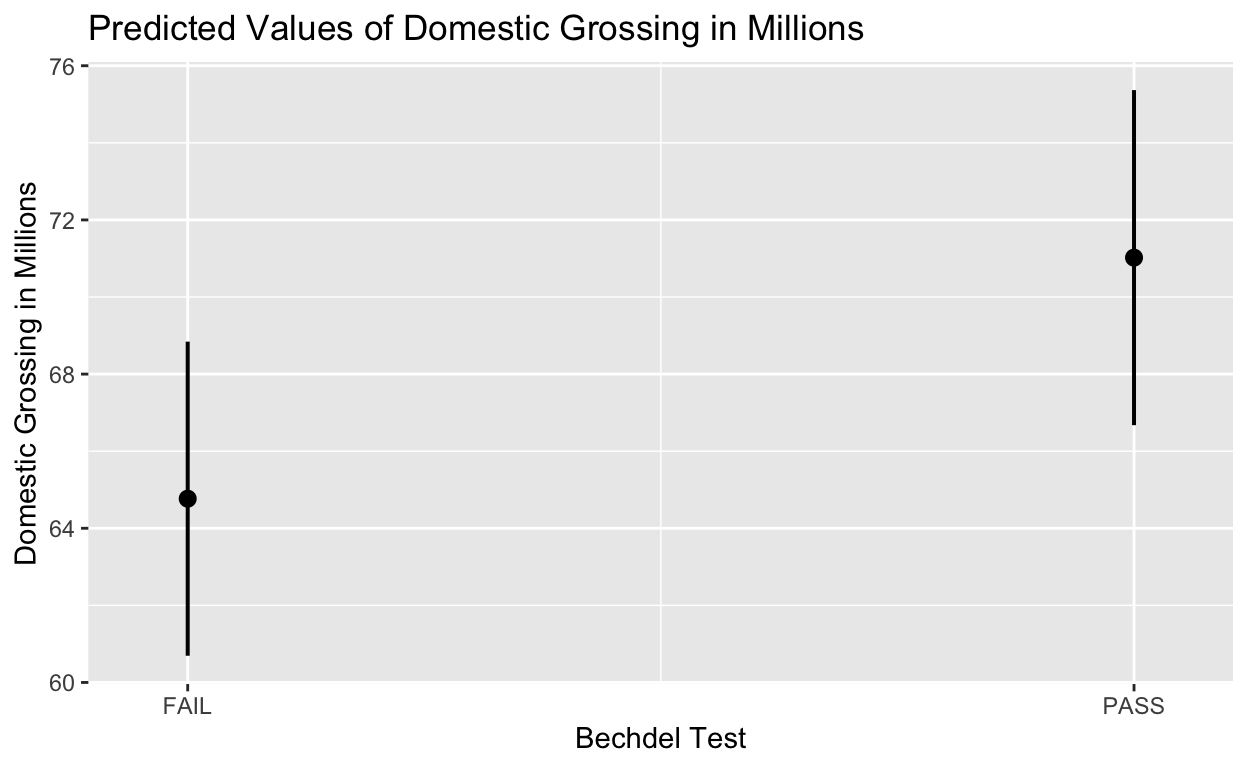
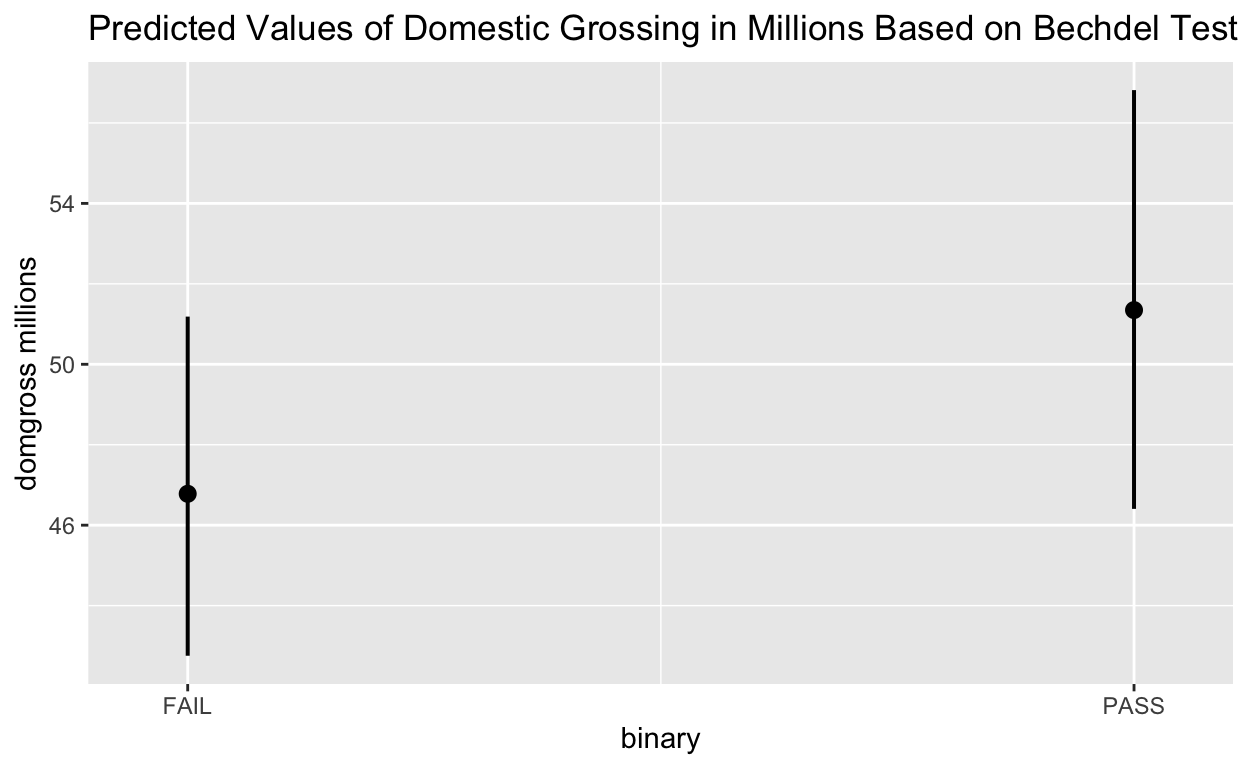
12/10 2

diff --git a/index.html b/index.html
@@ -115,7 +115,7 @@ code span.wa { color: #5e5e5e; font-style: italic; } /* Warning */
   <!--/radix_placeholder_rmarkdown_metadata-->
   
   <script type="text/json" id="radix-resource-manifest">
-  {"type":"character","attributes":{},"value":["bechdel_data.csv","index_files/anchor-4.2.2/anchor.min.js","index_files/bowser-1.9.3/bowser.min.js","index_files/distill-2.2.21/template.v2.js","index_files/figure-html5/unnamed-chunk-2-1.png","index_files/figure-html5/unnamed-chunk-3-1.png","index_files/figure-html5/unnamed-chunk-4-1.png","index_files/figure-html5/unnamed-chunk-4-2.png","index_files/figure-html5/unnamed-chunk-4-3.png","index_files/figure-html5/unnamed-chunk-5-1.png","index_files/figure-html5/unnamed-chunk-5-2.png","index_files/figure-html5/unnamed-chunk-5-3.png","index_files/figure-html5/unnamed-chunk-6-1.png","index_files/figure-html5/unnamed-chunk-6-2.png","index_files/figure-html5/unnamed-chunk-6-3.png","index_files/figure-html5/unnamed-chunk-6-4.png","index_files/header-attrs-2.16/header-attrs.js","index_files/header-attrs-2.17/header-attrs.js","index_files/jquery-3.6.0/jquery-3.6.0.js","index_files/jquery-3.6.0/jquery-3.6.0.min.js","index_files/jquery-3.6.0/jquery-3.6.0.min.map","index_files/kePrint-0.0.1/kePrint.js","index_files/lightable-0.0.1/lightable.css","index_files/popper-2.6.0/popper.min.js","index_files/tippy-6.2.7/tippy-bundle.umd.min.js","index_files/tippy-6.2.7/tippy-light-border.css","index_files/tippy-6.2.7/tippy.css","index_files/tippy-6.2.7/tippy.umd.min.js","index_files/webcomponents-2.0.0/webcomponents.js"]}
+  {"type":"character","attributes":{},"value":["bechdel_data.csv","index_files/anchor-4.2.2/anchor.min.js","index_files/bowser-1.9.3/bowser.min.js","index_files/distill-2.2.21/template.v2.js","index_files/figure-html5/unnamed-chunk-2-1.png","index_files/figure-html5/unnamed-chunk-3-1.png","index_files/figure-html5/unnamed-chunk-4-1.png","index_files/figure-html5/unnamed-chunk-4-2.png","index_files/figure-html5/unnamed-chunk-4-3.png","index_files/figure-html5/unnamed-chunk-5-1.png","index_files/figure-html5/unnamed-chunk-5-2.png","index_files/figure-html5/unnamed-chunk-5-3.png","index_files/figure-html5/unnamed-chunk-6-1.png","index_files/figure-html5/unnamed-chunk-6-2.png","index_files/figure-html5/unnamed-chunk-6-3.png","index_files/figure-html5/unnamed-chunk-6-4.png","index_files/figure-html5/unnamed-chunk-7-1.png","index_files/figure-html5/unnamed-chunk-7-2.png","index_files/header-attrs-2.16/header-attrs.js","index_files/header-attrs-2.17/header-attrs.js","index_files/jquery-3.6.0/jquery-3.6.0.js","index_files/jquery-3.6.0/jquery-3.6.0.min.js","index_files/jquery-3.6.0/jquery-3.6.0.min.map","index_files/kePrint-0.0.1/kePrint.js","index_files/lightable-0.0.1/lightable.css","index_files/popper-2.6.0/popper.min.js","index_files/tippy-6.2.7/tippy-bundle.umd.min.js","index_files/tippy-6.2.7/tippy-light-border.css","index_files/tippy-6.2.7/tippy.css","index_files/tippy-6.2.7/tippy.umd.min.js","index_files/webcomponents-2.0.0/webcomponents.js"]}
   </script>
   <!--radix_placeholder_navigation_in_header-->
   <!--/radix_placeholder_navigation_in_header-->
@@ -1520,18 +1520,21 @@ code span.wa { color: #5e5e5e; font-style: italic; } /* Warning */
 
 <div class="d-article">
 <h1 id="introduction">Introduction</h1>
-<p>The Bechdel Test is a method of measuring the representation of women in a film. The evaluation is based on three pieces of criteria: there has to be at least two women, they need to talk to each other, and their conversation must be about something other than a man. The test actually originated from one of Alison Bechdel, a comic strip illustrator and writer’s comics without the aim of becoming a national barometer for sexism in Hollywood. Though the Bechdel Test is extremely flawed because it fails to account for gender nuances, it serves as a minimum baseline for looking at movies, particularly older, more classic ones in a time when women were rarely portrayed as anything but a heterosexual love-interest on screen. These classic movies clearly succeeded in box offices, or they would not be considered classics today. More recently, the public has seen immense growth when it comes to diversity on screen, with more directors and actors being BIPOC, women, LGBTQ+, and a combination of these identity groups. However, one might ask whether the inclusivity and progressiveness of films impact the success of a movie. Does a movie passing the Bechdel Test affect its domestic grossing? In particular, assuming that a movie’s budget affects domestic grossing, how statistically significant are Bechdel Test outcomes in a movie’s viewing success?</p>
-<p>An optimistic hypothesis would be that movies are more likely to succeed if they do pass the Bechdel Test because society has evolved to value realistic portrayals of life and women that do not revolve around men. Utilizing data to answer the research question is interesting because it might inform how the movie industry works and whether their decisions relating to casting and scriptwriting is informed by their audiences or whether what audiences look for in movies does not necessarily reflect their everyday values. If the Bechdel test does have a strong positive or negative impact on domestic grossing, then it would tell us something significant about the values of production companies and audiences. If there is no correlation, it speaks to a potential indifference to the portrayal of women on screen. Additionally, by overlaying the Bechdel test binary on a movie’s budget in conjunction with domestic grossing, it would be notable if high budget movies are more or less likely to pass the Bechdel Test. The film industry plays a powerful role in the public’s implicit biases and public opinion is both represented in what’s shown on screen, but what’s shown on screen also impacts how people think in the future. If viewers are not exposed to women engaging in conversations independent of men, it informs the perception of women and can also lead to societal norms and stereotypes such as the stereotype that young women’s relationship might depend on the presence of men and their actions.</p>
+<p>The Bechdel Test is a method of measuring the representation of women in a film. The evaluation is based on three pieces of criteria: there has to be at least two women, they need to talk to each other, and their conversation must be about something other than a man. The test actually originated from one of Alison Bechdel, a comic strip illustrator and writer’s comics without the aim of becoming a national barometer for sexism in Hollywood.</p>
+<p>Though the Bechdel Test is extremely flawed because it fails to account for gender nuances, it serves as a minimum baseline for looking at movies, particularly older, more classic ones in a time when women were rarely portrayed as anything but a heterosexual love-interest on screen. These classic movies clearly succeeded in box offices, or they would not be considered classics today. More recently, the public has seen immense growth when it comes to diversity on screen, with more directors and actors being BIPOC, women, LGBTQ+, and a combination of these identity groups. However, one might ask whether the inclusiveness and progressiveness of films impact the success of a movie. <strong>Does a movie passing the Bechdel Test affect its domestic grossing? In particular, assuming that a movie’s budget affects domestic grossing, how statistically significant are Bechdel Test outcomes in a movie’s viewing success?</strong></p>
+<p>An optimistic hypothesis would be that movies are more likely to succeed if they do pass the Bechdel Test because society has evolved to value realistic portrayals of life and women that do not revolve around men. I hypothesize that movies that pass the Bechdel Test will be more likely to have a higher domestic grossing because so many viewers are women and in recent society, people have become feminists who value strong female characters in movies that have concerns and thoughts beyond a heterosexual love life or male protagonists.</p>
+<p>Utilizing data to answer the research question is interesting because it might inform how the movie industry works and whether their decisions relating to casting and script writing is informed by their audiences or whether what audiences look for in movies does not necessarily reflect their everyday values. If the Bechdel test does have a strong positive or negative impact on domestic grossing, then it would tell us something significant about the values of production companies and audiences. If there is no correlation, it speaks to a potential indifference to the portrayal of women on screen. Additionally, by overlaying the Bechdel test binary on a movie’s budget in conjunction with domestic grossing, it would be notable if high budget movies are more or less likely to pass the Bechdel Test.</p>
+<p>The film industry plays a powerful role in the public’s implicit biases and public opinion is both represented in what’s shown on screen, but what’s shown on screen also impacts how people think in the future. If viewers are not exposed to women engaging in conversations independent of men, it informs the perception of women and can also lead to societal norms and stereotypes such as the stereotype that young women’s relationship might depend on the presence of men and their actions.</p>
 <div class="layout-chunk" data-layout="l-body">
 <div class="sourceCode">
 <pre class="sourceCode r"><code class="sourceCode r"><span><span class='kw'><a href='https://rdrr.io/r/base/library.html'>library</a></span><span class='op'>(</span><span class='va'><a href='https://tidyverse.tidyverse.org'>tidyverse</a></span><span class='op'>)</span></span>
 <span><span class='va'>bechdel</span><span class='op'>&lt;-</span> <span class='fu'><a href='https://rdrr.io/r/utils/read.table.html'>read.csv</a></span><span class='op'>(</span><span class='st'>"bechdel_data.csv"</span><span class='op'>)</span></span>
 <span><span class='va'>bechdel</span> <span class='op'>&lt;-</span> <span class='va'>bechdel</span> <span class='op'>|&gt;</span></span>
-<span>  <span class='fu'><a href='https://dplyr.tidyverse.org/reference/mutate.html'>mutate</a></span><span class='op'>(</span>budget <span class='op'>=</span> <span class='fu'><a href='https://rdrr.io/r/base/numeric.html'>as.numeric</a></span><span class='op'>(</span><span class='va'>budget</span><span class='op'>)</span>,</span>
+<span>  <span class='fu'><a href='https://rdrr.io/pkg/dplyr/man/mutate.html'>mutate</a></span><span class='op'>(</span>budget <span class='op'>=</span> <span class='fu'><a href='https://rdrr.io/r/base/numeric.html'>as.numeric</a></span><span class='op'>(</span><span class='va'>budget</span><span class='op'>)</span>,</span>
 <span>         domgross <span class='op'>=</span> <span class='fu'><a href='https://rdrr.io/r/base/numeric.html'>as.numeric</a></span><span class='op'>(</span><span class='va'>domgross</span><span class='op'>)</span><span class='op'>)</span> <span class='op'>|&gt;</span></span>
-<span>  <span class='fu'><a href='https://dplyr.tidyverse.org/reference/mutate.html'>mutate</a></span><span class='op'>(</span>budget_millions <span class='op'>=</span> <span class='va'>budget</span><span class='op'>/</span><span class='fl'>1000000</span>, </span>
+<span>  <span class='fu'><a href='https://rdrr.io/pkg/dplyr/man/mutate.html'>mutate</a></span><span class='op'>(</span>budget_millions <span class='op'>=</span> <span class='va'>budget</span><span class='op'>/</span><span class='fl'>1000000</span>, </span>
 <span>         domgross_millions <span class='op'>=</span> <span class='va'>domgross</span><span class='op'>/</span><span class='fl'>1000000</span><span class='op'>)</span><span class='op'>|&gt;</span></span>
-<span>  <span class='fu'><a href='https://tidyr.tidyverse.org/reference/drop_na.html'>drop_na</a></span><span class='op'>(</span><span class='op'>)</span></span></code></pre>
+<span>  <span class='fu'><a href='https://rdrr.io/pkg/tidyr/man/drop_na.html'>drop_na</a></span><span class='op'>(</span><span class='op'>)</span></span></code></pre>
 </div>
 </div>
 <h1 id="data">Data</h1>
@@ -1565,40 +1568,38 @@ code span.wa { color: #5e5e5e; font-style: italic; } /* Warning */
 <td style="text-align: left;">budget for a movie in millions of US dollars</td>
 </tr>
 <tr class="odd">
-<td style="text-align: left;"><code>domgross_millsion</code></td>
-<td style="text-align: left;">domestic grossing for a movie in millions of people</td>
+<td style="text-align: left;"><code>domgross_millions</code></td>
+<td style="text-align: left;">domestic grossing for a movie in millions of US dollars</td>
 </tr>
 <tr class="even">
-<td style="text-align: left;"><code>gdpPercap</code></td>
-<td style="text-align: left;">GDP per capita (US dollars, inflation-adjusted)</td>
-</tr>
-<tr class="odd">
 <td style="text-align: left;"></td>
 <td style="text-align: left;"></td>
 </tr>
 </tbody>
 </table>
-<p>The dependent variable (the y-variable) in this study is domestic grossing throughout the study because that is the variable used to measure the success of each film. There are a few independent variables (x-variables) that are utilized in the data visualizations including the budgets of the movies, the year they were released, and, most importantly, whether the movie passes the Bechdel Test. All of the variables are quantitative except for the Bechdel Test which is a Pass/Fail binary, another type of categorical variable. The data was collected likely from existing databases from box offices that would preserve movies’ budgets and grossing data. FiveThirtyEight, which is known for their data projects, has used a website called The-Numbers.com with daily and archived updates about how films are doing in theaters and at home, so it is very possible they took some of their data from there as well as Bechdel.com which tracks which movies pass the three criteria of the Bechdel Test. The following is a summary of the dependent variable, the domestic grossing of the movies, divided based on its Bechdel status:</p>
+<p>The dependent variable (the y-variable) in this study is domestic grossing throughout the study because that is the variable used to measure the success of each film. There are a few independent variables (x-variables) that are utilized in the data visualizations including the budgets of the movies, the year they were released, and, most importantly, whether the movie passes the Bechdel Test. All of the variables are quantitative except for the Bechdel Test which is a Pass/Fail binary, another type of categorical variable.</p>
+<p>The data was collected likely from existing databases from box offices that would preserve movies’ budgets and grossing data. FiveThirtyEight, which is known for their data projects, has used a website called The-Numbers.com with daily and archived updates about how films are doing in theaters and at home, so it is very possible they took some of their data from there as well as Bechdel.com which tracks which movies pass the three criteria of the Bechdel Test. The following is a summary of the dependent variable, the domestic grossing of the movies, divided based on its Bechdel status:</p>
 <div class="layout-chunk" data-layout="l-body">
 <div class="sourceCode">
 <pre class="sourceCode r"><code class="sourceCode r"><span><span class='kw'><a href='https://rdrr.io/r/base/library.html'>library</a></span><span class='op'>(</span><span class='va'><a href='https://ggplot2.tidyverse.org'>ggplot2</a></span><span class='op'>)</span></span>
 <span><span class='co'>#Summary of dependent variable (domestic grossing)</span></span>
 <span><span class='va'>domgross_plot</span> <span class='op'>&lt;-</span> <span class='va'>bechdel</span> <span class='op'>|&gt;</span></span>
-<span>  <span class='fu'><a href='https://ggplot2.tidyverse.org/reference/ggplot.html'>ggplot</a></span><span class='op'>(</span><span class='va'>bechdel</span>, mapping <span class='op'>=</span> <span class='fu'><a href='https://ggplot2.tidyverse.org/reference/aes.html'>aes</a></span><span class='op'>(</span>x <span class='op'>=</span> <span class='va'>domgross_millions</span>, color <span class='op'>=</span> <span class='va'>binary</span><span class='op'>)</span><span class='op'>)</span> <span class='op'>+</span> <span class='fu'><a href='https://ggplot2.tidyverse.org/reference/geom_histogram.html'>geom_histogram</a></span><span class='op'>(</span><span class='op'>)</span> <span class='op'>+</span> <span class='fu'><a href='https://ggplot2.tidyverse.org/reference/facet_wrap.html'>facet_wrap</a></span><span class='op'>(</span><span class='op'>~</span> <span class='va'>binary</span><span class='op'>)</span> <span class='op'>+</span> <span class='fu'><a href='https://ggplot2.tidyverse.org/reference/labs.html'>labs</a></span><span class='op'>(</span>x<span class='op'>=</span> <span class='st'>"Domestic Grossing in Millions"</span>, y <span class='op'>=</span> <span class='st'>"Number of Movies"</span>, title <span class='op'>=</span> <span class='st'>"Summary of Dependent Variable: Domestic Grossing in Millions"</span>, color <span class='op'>=</span> <span class='st'>"Bechdel Test"</span><span class='op'>)</span></span>
+<span>  <span class='fu'><a href='https://rdrr.io/pkg/ggplot2/man/ggplot.html'>ggplot</a></span><span class='op'>(</span><span class='va'>bechdel</span>, mapping <span class='op'>=</span> <span class='fu'><a href='https://rdrr.io/pkg/ggplot2/man/aes.html'>aes</a></span><span class='op'>(</span>x <span class='op'>=</span> <span class='va'>domgross_millions</span>, color <span class='op'>=</span> <span class='va'>binary</span><span class='op'>)</span><span class='op'>)</span> <span class='op'>+</span> <span class='fu'><a href='https://rdrr.io/pkg/ggplot2/man/geom_histogram.html'>geom_histogram</a></span><span class='op'>(</span><span class='op'>)</span> <span class='op'>+</span> <span class='fu'><a href='https://rdrr.io/pkg/ggplot2/man/facet_wrap.html'>facet_wrap</a></span><span class='op'>(</span><span class='op'>~</span> <span class='va'>binary</span><span class='op'>)</span> <span class='op'>+</span> <span class='fu'><a href='https://rdrr.io/pkg/ggplot2/man/labs.html'>labs</a></span><span class='op'>(</span>x<span class='op'>=</span> <span class='st'>"Domestic Grossing in Millions"</span>, y <span class='op'>=</span> <span class='st'>"Number of Movies"</span>, title <span class='op'>=</span> <span class='st'>"Summary of Dependent Variable: Domestic Grossing in Millions"</span>, color <span class='op'>=</span> <span class='st'>"Bechdel Test"</span><span class='op'>)</span></span>
 <span><span class='va'>domgross_plot</span></span></code></pre>
 </div>
 <p><img src="index_files/figure-html5/unnamed-chunk-2-1.png" width="624" /></p>
 </div>
-<p>Additionally, here is a plot that shows the domestic grossing and its relationship with one of the dependent variables, budget, color coded by whether the movies plotted passed the Bechdel Test. The scatterplot demonstrates a very basic positive linear relationship between domestic grossing and budget which is unsurprising. It also shows that this relationship is not heavily impacted by whether a film passes the Bechdel Test. The plot under it compares the simple relationship with one that shows the log of the values to see how the log plot shows an even more normal distribution and a stronger positive linear relationship between domestic grossing and budget with even less variation between the Pass and Fail Bechdel variables.</p>
+<h1 id="results">Results</h1>
+<p>Here is a plot that shows the domestic grossing and its relationship with one of the dependent variables, budget, color coded by whether the movies plotted passed the Bechdel Test. The scatter plot demonstrates a very basic positive linear relationship between domestic grossing and budget which is unsurprising. It also shows that this relationship is not heavily impacted by whether a film passes the Bechdel Test. The plot under it compares the simple relationship with one that shows the log of the values to see how the log plot shows an even more normal distribution and a stronger positive linear relationship between domestic grossing and budget with even less variation between the Pass and Fail Bechdel variables.</p>
 <div class="layout-chunk" data-layout="l-body">
 <div class="sourceCode">
 <pre class="sourceCode r"><code class="sourceCode r"><span><span class='kw'><a href='https://rdrr.io/r/base/library.html'>library</a></span><span class='op'>(</span><span class='va'><a href='https://ggplot2.tidyverse.org'>ggplot2</a></span><span class='op'>)</span></span>
-<span><span class='co'>#Scatterplot Summary of Main Variables</span></span>
+<span><span class='co'>#Scatter Plot Summary of Main Variables</span></span>
 <span><span class='va'>bechdel_scatterplot</span> <span class='op'>&lt;-</span> <span class='va'>bechdel</span> <span class='op'>|&gt;</span></span>
-<span>  <span class='fu'><a href='https://ggplot2.tidyverse.org/reference/ggplot.html'>ggplot</a></span><span class='op'>(</span><span class='va'>bechdel</span>, mapping <span class='op'>=</span> <span class='fu'><a href='https://ggplot2.tidyverse.org/reference/aes.html'>aes</a></span><span class='op'>(</span>x <span class='op'>=</span> <span class='va'>budget_millions</span>, y <span class='op'>=</span> <span class='va'>domgross_millions</span>, color <span class='op'>=</span> <span class='va'>binary</span><span class='op'>)</span><span class='op'>)</span> <span class='op'>+</span> </span>
-<span>  <span class='fu'><a href='https://ggplot2.tidyverse.org/reference/geom_point.html'>geom_point</a></span><span class='op'>(</span>size <span class='op'>=</span> <span class='fl'>0.5</span><span class='op'>)</span> <span class='op'>+</span> </span>
-<span>  <span class='fu'><a href='https://ggplot2.tidyverse.org/reference/geom_smooth.html'>geom_smooth</a></span><span class='op'>(</span>method <span class='op'>=</span> <span class='va'>lm</span><span class='op'>)</span> <span class='op'>+</span> </span>
-<span>  <span class='fu'><a href='https://ggplot2.tidyverse.org/reference/labs.html'>labs</a></span><span class='op'>(</span></span>
+<span>  <span class='fu'><a href='https://rdrr.io/pkg/ggplot2/man/ggplot.html'>ggplot</a></span><span class='op'>(</span><span class='va'>bechdel</span>, mapping <span class='op'>=</span> <span class='fu'><a href='https://rdrr.io/pkg/ggplot2/man/aes.html'>aes</a></span><span class='op'>(</span>x <span class='op'>=</span> <span class='va'>budget_millions</span>, y <span class='op'>=</span> <span class='va'>domgross_millions</span>, color <span class='op'>=</span> <span class='va'>binary</span><span class='op'>)</span><span class='op'>)</span> <span class='op'>+</span> </span>
+<span>  <span class='fu'><a href='https://rdrr.io/pkg/ggplot2/man/geom_point.html'>geom_point</a></span><span class='op'>(</span>size <span class='op'>=</span> <span class='fl'>0.5</span><span class='op'>)</span> <span class='op'>+</span> </span>
+<span>  <span class='fu'><a href='https://rdrr.io/pkg/ggplot2/man/geom_smooth.html'>geom_smooth</a></span><span class='op'>(</span>method <span class='op'>=</span> <span class='va'>lm</span><span class='op'>)</span> <span class='op'>+</span> </span>
+<span>  <span class='fu'><a href='https://rdrr.io/pkg/ggplot2/man/labs.html'>labs</a></span><span class='op'>(</span></span>
 <span>    x <span class='op'>=</span> <span class='st'>"Film Budgets in Millions of USD"</span>, </span>
 <span>    y <span class='op'>=</span> <span class='st'>"Films' Domestic Grossing"</span>, </span>
 <span>    title <span class='op'>=</span> <span class='st'>"The Effect of Budget on A Film's Domestic Grossing Based on Passing the Bechdel Test"</span>, </span>
@@ -1610,12 +1611,12 @@ code span.wa { color: #5e5e5e; font-style: italic; } /* Warning */
 <div class="layout-chunk" data-layout="l-body">
 <div class="sourceCode">
 <pre class="sourceCode r"><code class="sourceCode r"><span><span class='kw'><a href='https://rdrr.io/r/base/library.html'>library</a></span><span class='op'>(</span><span class='va'><a href='https://ggplot2.tidyverse.org'>ggplot2</a></span><span class='op'>)</span></span>
-<span><span class='co'>#Scatterplot Log Summary of Main Variables</span></span>
+<span><span class='co'>#Scatter Plot Log Summary of Main Variables</span></span>
 <span><span class='va'>bechdel_scatterplot_log</span> <span class='op'>&lt;-</span> <span class='va'>bechdel</span> <span class='op'>|&gt;</span></span>
-<span>  <span class='fu'><a href='https://ggplot2.tidyverse.org/reference/ggplot.html'>ggplot</a></span><span class='op'>(</span><span class='va'>bechdel</span>, mapping <span class='op'>=</span> <span class='fu'><a href='https://ggplot2.tidyverse.org/reference/aes.html'>aes</a></span><span class='op'>(</span>x <span class='op'>=</span> <span class='fu'><a href='https://rdrr.io/r/base/Log.html'>log</a></span><span class='op'>(</span><span class='va'>budget_millions</span><span class='op'>)</span>, y <span class='op'>=</span> <span class='fu'><a href='https://rdrr.io/r/base/Log.html'>log</a></span><span class='op'>(</span><span class='va'>domgross_millions</span><span class='op'>)</span>, color <span class='op'>=</span> <span class='va'>binary</span><span class='op'>)</span><span class='op'>)</span> <span class='op'>+</span> </span>
-<span>  <span class='fu'><a href='https://ggplot2.tidyverse.org/reference/geom_point.html'>geom_point</a></span><span class='op'>(</span>size <span class='op'>=</span> <span class='fl'>0.5</span><span class='op'>)</span> <span class='op'>+</span> </span>
-<span>  <span class='fu'><a href='https://ggplot2.tidyverse.org/reference/geom_smooth.html'>geom_smooth</a></span><span class='op'>(</span>method <span class='op'>=</span> <span class='va'>lm</span><span class='op'>)</span> <span class='op'>+</span> </span>
-<span>  <span class='fu'><a href='https://ggplot2.tidyverse.org/reference/labs.html'>labs</a></span><span class='op'>(</span></span>
+<span>  <span class='fu'><a href='https://rdrr.io/pkg/ggplot2/man/ggplot.html'>ggplot</a></span><span class='op'>(</span><span class='va'>bechdel</span>, mapping <span class='op'>=</span> <span class='fu'><a href='https://rdrr.io/pkg/ggplot2/man/aes.html'>aes</a></span><span class='op'>(</span>x <span class='op'>=</span> <span class='fu'><a href='https://rdrr.io/r/base/Log.html'>log</a></span><span class='op'>(</span><span class='va'>budget_millions</span><span class='op'>)</span>, y <span class='op'>=</span> <span class='fu'><a href='https://rdrr.io/r/base/Log.html'>log</a></span><span class='op'>(</span><span class='va'>domgross_millions</span><span class='op'>)</span>, color <span class='op'>=</span> <span class='va'>binary</span><span class='op'>)</span><span class='op'>)</span> <span class='op'>+</span> </span>
+<span>  <span class='fu'><a href='https://rdrr.io/pkg/ggplot2/man/geom_point.html'>geom_point</a></span><span class='op'>(</span>size <span class='op'>=</span> <span class='fl'>0.5</span><span class='op'>)</span> <span class='op'>+</span> </span>
+<span>  <span class='fu'><a href='https://rdrr.io/pkg/ggplot2/man/geom_smooth.html'>geom_smooth</a></span><span class='op'>(</span>method <span class='op'>=</span> <span class='va'>lm</span><span class='op'>)</span> <span class='op'>+</span> </span>
+<span>  <span class='fu'><a href='https://rdrr.io/pkg/ggplot2/man/labs.html'>labs</a></span><span class='op'>(</span></span>
 <span>    x <span class='op'>=</span> <span class='st'>"Log of Film Budgets in Millions of USD"</span>, </span>
 <span>    y <span class='op'>=</span> <span class='st'>"Log of Films' Domestic Grossing"</span>, </span>
 <span>    title <span class='op'>=</span> <span class='st'>"The Effect of Budget on A Film's Domestic Grossing Based on Passing the Bechdel Test"</span>, </span>
@@ -1625,8 +1626,8 @@ code span.wa { color: #5e5e5e; font-style: italic; } /* Warning */
 <p><img src="index_files/figure-html5/unnamed-chunk-4-1.png" width="624" /></p>
 </div>
 <p>To assess the main results, the dependent variable, the domestic grossing, will be put in conjunction with the other variables that could end up being causal or confounding variables such as the budget, year, and the Bechdel binary. The design of this research surrounding the impact of the Bechdel Test can be categorized as a cross-sectional study because the data is being observed at a given time, in this case long after the movies came out and the budgets and domestic grossing were determined and measured. Additionally, the 1,795 data points in the dataset are a small population of the hundreds of thousands of movies that exist and could be candidates for the Bechdel Test. However, simply tracking a sample of movies in a cross sectional study can inform larger trends related to box office movies and their relationship with the Bechdel Test.</p>
-<h1 id="results">Results</h1>
-<p>Though the scatterplot provides an aesthetically pleasing visualization of the simple correlation between some of the variables, to get a clearer understanding of the actual statistical significance of the budget, Bechdel status, and other confounding variables such as year, a linear regression model is significantly more effective. The following table shows the model that looks at the relationship between the log of domestic grossing and the log of budget, the significance of the Bechdel binary, and the movie’s year, with the independent variables held constant. The main coefficient in our regression, the Bechdel binary, is shown to have a coefficient of 0.093, which means there was only a very minor positive impact of the Bechdel test on the domestic grossing of the movies examined. The Bechdel Test variable is the only variable in which statistical significance has a high p-value and the least significance, which means that budget and year do have a significant impact on the domestic grossing results of a movie with the Bechdel variable held constant, but the Bechdel variable is not significant in any circumstance observed. Therefore, it is of note that the Bechdel test does not have a causal impact on the grossing success of the movies assessed.</p>
+<p>Though the scatter plot provides an aesthetically pleasing visualization of the simple correlation between some of the variables, to get a clearer understanding of the actual statistical significance of the budget, Bechdel status, and other confounding variables such as year, a linear regression model is significantly more effective. The following table shows the model that looks at the relationship between the log of domestic grossing and the log of budget, the significance of the Bechdel binary, and the movie’s year, with the independent variables held constant.</p>
+<p>The main coefficient in our regression, the Bechdel binary, is shown to have a coefficient of 0.093, which means there was only a very minor positive impact of the Bechdel test on the domestic grossing of the movies examined. In other words, the average movies that passes the Bechdel Test has an average domestic grossing around 6.3 million dollars higher than the average movie that doesn’t when taken out of log. The Bechdel Test variable is the only variable in which the statistical significance has a high p-value and the least significance, which means that budget and year do have a significant impact on the domestic grossing results of a movie with the Bechdel variable held constant, but the Bechdel variable is not significant in any circumstance observed. Therefore, it is of note that the Bechdel test does not have a causal impact on the grossing success of the movies assessed, and we must maintain the null hypothesis that there is no effect. The only other coefficient that can be properly measured with the regression is budget, which indicates that the average movie that passes the Bechdel Test has a budget of a bit higher than the average movie that does not pass the Bechdel Test and this outcome is statistically significant with a p-value less than 0.001 and allows for the rejection of the null hypotheses.</p>
 <div class="layout-chunk" data-layout="l-body">
 <div class="sourceCode">
 <pre class="sourceCode r"><code class="sourceCode r"><span><span class='kw'><a href='https://rdrr.io/r/base/library.html'>library</a></span><span class='op'>(</span><span class='va'><a href='https://broom.tidymodels.org/'>broom</a></span><span class='op'>)</span></span>
@@ -1638,10 +1639,10 @@ code span.wa { color: #5e5e5e; font-style: italic; } /* Warning */
 <span><span class='va'>bechdel2</span><span class='op'>[</span><span class='fu'><a href='https://rdrr.io/r/base/which.html'>which</a></span><span class='op'>(</span><span class='va'>bechdel</span><span class='op'>$</span><span class='va'>domgross</span> <span class='op'>==</span> <span class='fl'>0</span><span class='op'>)</span>,<span class='op'>]</span> <span class='op'>&lt;-</span> <span class='cn'>NA</span></span>
 <span></span>
 <span><span class='co'>#Linear Regression</span></span>
-<span><span class='va'>m.lm</span> <span class='op'>&lt;-</span> <span class='fu'><a href='https://rdrr.io/r/stats/lm.html'>lm</a></span><span class='op'>(</span><span class='va'>domgross_millions</span> <span class='op'>~</span> <span class='va'>binary</span> <span class='op'>+</span></span>
-<span>             <span class='va'>budget_millions</span> <span class='op'>+</span> <span class='va'>year</span>, </span>
+<span><span class='va'>m.lm</span> <span class='op'>&lt;-</span> <span class='fu'><a href='https://rdrr.io/r/stats/lm.html'>lm</a></span><span class='op'>(</span><span class='fu'><a href='https://rdrr.io/r/base/Log.html'>log</a></span><span class='op'>(</span><span class='va'>domgross_millions</span><span class='op'>)</span> <span class='op'>~</span> <span class='va'>binary</span> <span class='op'>+</span></span>
+<span>             <span class='fu'><a href='https://rdrr.io/r/base/Log.html'>log</a></span><span class='op'>(</span><span class='va'>budget_millions</span><span class='op'>)</span> <span class='op'>+</span> <span class='va'>year</span>, </span>
 <span>           data <span class='op'>=</span> <span class='va'>bechdel2</span><span class='op'>)</span></span>
-<span><span class='va'>table</span> <span class='op'>&lt;-</span> <span class='fu'><a href='https://vincentarelbundock.github.io/modelsummary/reference/modelsummary.html'>modelsummary</a></span><span class='op'>(</span><span class='va'>m.lm</span>, stars <span class='op'>=</span> <span class='cn'>TRUE</span>,</span>
+<span><span class='va'>table</span> <span class='op'>&lt;-</span> <span class='fu'><a href='https://rdrr.io/pkg/modelsummary/man/modelsummary.html'>modelsummary</a></span><span class='op'>(</span><span class='va'>m.lm</span>, stars <span class='op'>=</span> <span class='cn'>TRUE</span>,</span>
 <span>             gof_omit <span class='op'>=</span> <span class='fu'><a href='https://rdrr.io/r/base/c.html'>c</a></span><span class='op'>(</span><span class='st'>"IC|Lik.|RMSE"</span><span class='op'>)</span>, notes <span class='op'>=</span> <span class='st'>"Outcome = Domestic Grossing"</span>,</span>
 <span>             coef_rename <span class='op'>=</span> <span class='fu'><a href='https://rdrr.io/r/base/c.html'>c</a></span><span class='op'>(</span><span class='st'>"(Intercept)"</span><span class='op'>=</span><span class='st'>"Intercept"</span>, </span>
 <span>                             binaryPASS <span class='op'>=</span> <span class='st'>"Bechdel Test"</span>, </span>
@@ -1669,14 +1670,14 @@ Model 1
 Intercept
 </td>
 <td style="text-align:center;">
-2704.357***
+57.061***
 </td>
 </tr>
 <tr>
 <td style="text-align:left;">
 </td>
 <td style="text-align:center;">
-(516.630)
+(11.134)
 </td>
 </tr>
 <tr>
@@ -1684,29 +1685,29 @@ Intercept
 Bechdel Test
 </td>
 <td style="text-align:center;">
-6.254*
+0.093
 </td>
 </tr>
 <tr>
 <td style="text-align:left;">
 </td>
 <td style="text-align:center;">
-(3.029)
+(0.066)
 </td>
 </tr>
 <tr>
 <td style="text-align:left;">
-Budget in Millions of Dollars
+log(budget_millions)
 </td>
 <td style="text-align:center;">
-1.124***
+0.851***
 </td>
 </tr>
 <tr>
 <td style="text-align:left;">
 </td>
 <td style="text-align:center;">
-(0.031)
+(0.024)
 </td>
 </tr>
 <tr>
@@ -1714,14 +1715,14 @@ Budget in Millions of Dollars
 Year
 </td>
 <td style="text-align:center;">
-−1.343***
+−0.028***
 </td>
 </tr>
 <tr>
 <td style="text-align:left;box-shadow: 0px 1px">
 </td>
 <td style="text-align:center;box-shadow: 0px 1px">
-(0.258)
+(0.006)
 </td>
 </tr>
 <tr>
@@ -1737,7 +1738,7 @@ Num.Obs.
 R2
 </td>
 <td style="text-align:center;">
-0.457
+0.453
 </td>
 </tr>
 <tr>
@@ -1745,7 +1746,7 @@ R2
 R2 Adj.
 </td>
 <td style="text-align:center;">
-0.456
+0.452
 </td>
 </tr>
 </tbody>
@@ -1765,19 +1766,28 @@ R2 Adj.
 </tfoot>
 </table>
 </div>
-<p>This result is bolstered by the visual model of the data from the linear regression, which places the point estimate for the average predicted domestic grossing for movies that fail the test just below 50 million dollars, and the point estimate for the average predicted domestic grossing for movies that pass just above 50 million, which is not significant because the range of grossing for all the movies goes from zero to 760 million. Additionally, the model shows that the confidence intervals for the Pass and Fail outcomes of the binary variable overlap significantly, so even the difference in point estimates could be completely negated based on the parameters of the domestic grossing. The subsequent models of the predicted values of domestic grossing in millions of dollars based on budget and year show the statistical significance of those values in contrast to the lack of significance of the Bechdel value because the first plot demonstrates confidence intervals with a strong positive slope and the second represents confidence intervals with a strong negative slope, but low p-values in both cases. The final plot puts together all of the predictions exemplifying just how wide the confidence interval is for the low signficance of the Bechdel test in contrast to the high significance of budget and year on the domestic grossing numbers of the movies evaluated.</p>
+<p>This result is bolstered by the visual model of the data from the linear regression, which places the point estimate for the average predicted domestic grossing for movies that fail the test just below 50 million dollars, and the point estimate for the average predicted domestic grossing for movies that pass just above 50 million, which is not significant because the range of grossing for all the movies goes from zero to 760 million dollars. Additionally, the model shows that the confidence intervals for the Pass and Fail outcomes of the binary variable overlap significantly, so even the difference in point estimates could be completely negated based on the parameters of the domestic grossing.</p>
 <div class="layout-chunk" data-layout="l-body">
 <div class="sourceCode">
-<pre class="sourceCode r"><code class="sourceCode r"><span><span class='fu'><a href='https://strengejacke.github.io/sjPlot/reference/plot_model.html'>plot_model</a></span><span class='op'>(</span><span class='va'>m.lm</span>, type <span class='op'>=</span> <span class='st'>"pred"</span>, axis.title <span class='op'>=</span> <span class='fu'><a href='https://rdrr.io/r/base/c.html'>c</a></span><span class='op'>(</span><span class='st'>"Bechdel Test"</span>, <span class='st'>"Domestic Grossing in Millions"</span><span class='op'>)</span>, title <span class='op'>=</span> <span class='fu'><a href='https://rdrr.io/r/base/c.html'>c</a></span><span class='op'>(</span><span class='st'>"Predicted Values of Domestic Grossing in Millions"</span><span class='op'>)</span><span class='op'>)</span><span class='op'>$</span><span class='va'>binary</span></span></code></pre>
+<pre class="sourceCode r"><code class="sourceCode r"><span><span class='fu'><a href='https://rdrr.io/pkg/sjPlot/man/plot_model.html'>plot_model</a></span><span class='op'>(</span><span class='va'>m.lm</span>, type <span class='op'>=</span> <span class='st'>"pred"</span>, title <span class='op'>=</span> <span class='fu'><a href='https://rdrr.io/r/base/c.html'>c</a></span><span class='op'>(</span><span class='st'>"Predicted Values of Domestic Grossing in Millions Based on Bechdel Test Outcome"</span><span class='op'>)</span><span class='op'>)</span><span class='op'>$</span><span class='va'>binary</span></span></code></pre>
 </div>
-<img src="index_files/figure-html5/unnamed-chunk-6-1.png" width="624" />
+<p><img src="index_files/figure-html5/unnamed-chunk-6-1.png" width="624" /></p>
+</div>
+<p>The subsequent models of the predicted values of domestic grossing in millions of dollars based on budget and year are relevant because they help indicate predicted values without the log function that was used for the table. The first plot demonstrates confidence intervals with a strong positive slope and the second represents confidence intervals with a strong negative slope, but low p-values in both cases:</p>
+<div class="layout-chunk" data-layout="l-body">
 <div class="sourceCode">
-<pre class="sourceCode r"><code class="sourceCode r"><span><span class='fu'><a href='https://strengejacke.github.io/sjPlot/reference/plot_model.html'>plot_model</a></span><span class='op'>(</span><span class='va'>m.lm</span>, show.values <span class='op'>=</span> <span class='cn'>TRUE</span>, axis.title <span class='op'>=</span> <span class='fu'><a href='https://rdrr.io/r/base/c.html'>c</a></span><span class='op'>(</span><span class='st'>"Estimate"</span><span class='op'>)</span>, title <span class='op'>=</span> <span class='fu'><a href='https://rdrr.io/r/base/c.html'>c</a></span><span class='op'>(</span><span class='st'>"Visualization for Linear Regression Model"</span><span class='op'>)</span><span class='op'>)</span></span></code></pre>
+<pre class="sourceCode r"><code class="sourceCode r"><span><span class='fu'><a href='https://rdrr.io/pkg/sjPlot/man/plot_model.html'>plot_model</a></span><span class='op'>(</span><span class='va'>m.lm</span>, type <span class='op'>=</span> <span class='st'>"pred"</span>, title <span class='op'>=</span> <span class='fu'><a href='https://rdrr.io/r/base/c.html'>c</a></span><span class='op'>(</span><span class='st'>"Predicted Values of Domestic Grossing in Millions Based on Budget"</span><span class='op'>)</span><span class='op'>)</span><span class='op'>$</span><span class='va'>budget_millions</span></span></code></pre>
 </div>
-<p><img src="index_files/figure-html5/unnamed-chunk-6-2.png" width="624" /></p>
+<img src="index_files/figure-html5/unnamed-chunk-7-1.png" width="624" />
+<div class="sourceCode">
+<pre class="sourceCode r"><code class="sourceCode r"><span><span class='fu'><a href='https://rdrr.io/pkg/sjPlot/man/plot_model.html'>plot_model</a></span><span class='op'>(</span><span class='va'>m.lm</span>, type <span class='op'>=</span> <span class='st'>"pred"</span>, title <span class='op'>=</span> <span class='fu'><a href='https://rdrr.io/r/base/c.html'>c</a></span><span class='op'>(</span><span class='st'>"Predicted Values of Domestic Grossing in Millions Based on Year"</span><span class='op'>)</span><span class='op'>)</span><span class='op'>$</span><span class='va'>year</span></span></code></pre>
+</div>
+<p><img src="index_files/figure-html5/unnamed-chunk-7-2.png" width="624" /></p>
 </div>
 <h1 id="conclusion">Conclusion</h1>
-<p>In conclusion, the linear regression found does not support the hypothesis that movies that pass the Bechdel Test are more likely to succeed in terms of grossing. Instead, it can be concluded that a movie’s Bechdel Test status has little to no effect on the viewing success of movies in the US, regardless of budget or the movies’ release year. In other words, it was extremely significant that the Bechdel binary had no statistical significance. One might be able to conclude that the feminist nature of a movie has very little effect on Americans’ interest in watching said movie. This experiment could have been improved significantly with a more randomized sample size and perhaps with a before and after element. For example, the domestic grossing numbers could have been influenced by the time of year or world events that occurred during its release, which would impact its success for reasons independent of the movie’s Bechdel status. Additionally, the experiment would be more meaningful if there was information on the viewers’ beliefs and identity for watching the movie. An ideal experiment examining the relationship between gender attitudes and movies might track viewers’ outlooks towards movies before and after watching them in a before-and-after experiment with randomized participants. The answers in these surveys might be impacted by the gender or age of the respondents which would be interesting to factor into a regression. The experiment might also have benefited from other information about each movie beyond its Bechdel status such as its racial diversity or subject matter to make the study more intersectional, or the gender of its director which is another method of finding out if gender bias plays a role in domestic grossing success.</p>
+<p>In conclusion, the linear regression found does not support the hypothesis that movies that pass the Bechdel Test are more likely to succeed in terms of grossing. Instead, it can be concluded that a movie’s Bechdel Test status has little to no effect on the viewing success of movies in the US, regardless of budget or the movies’ release year. In other words, it was extremely significant that the Bechdel binary had no statistical significance, and the study provides an extremely depressing conclusion about the lack of feminism American movie viewers display. One might be able to conclude that the feminist nature of a movie has very little effect on Americans’ interest in watching said movie. In the larger picture, the study leads to questions about what viewers prioritize when choosing what movies to see in theaters. Even the aspect of the data that shows how many movies fail the Bechdel Test tells us that there is still so much work to be done in terms of the representation of women on screen.</p>
+<p>This experiment could have been improved significantly with a more randomized sample size and perhaps with a before and after element. For example, the domestic grossing numbers could have been influenced by the time of year or world events that occurred during its release, which would impact its success for reasons independent of the movie’s Bechdel status. Additionally, the experiment would be more meaningful if there was information on the viewers’ beliefs and identity for watching the movie.</p>
+<p>An ideal experiment examining the relationship between gender attitudes and movies might track viewers’ outlooks towards movies before and after watching them in a before-and-after experiment with randomized participants. The answers in these surveys might be impacted by the gender or age of the respondents which would be interesting to factor into a regression. The experiment might also have benefited from other information about each movie beyond its Bechdel status such as its racial diversity or subject matter to make the study more intersectional, or the gender of its director which is another method of finding out if gender bias plays a role in domestic grossing success.</p>
 <div class="sourceCode" id="cb1"><pre class="sourceCode r distill-force-highlighting-css"><code class="sourceCode r"></code></pre></div>
 <!--radix_placeholder_article_footer-->
 <!--/radix_placeholder_article_footer-->
